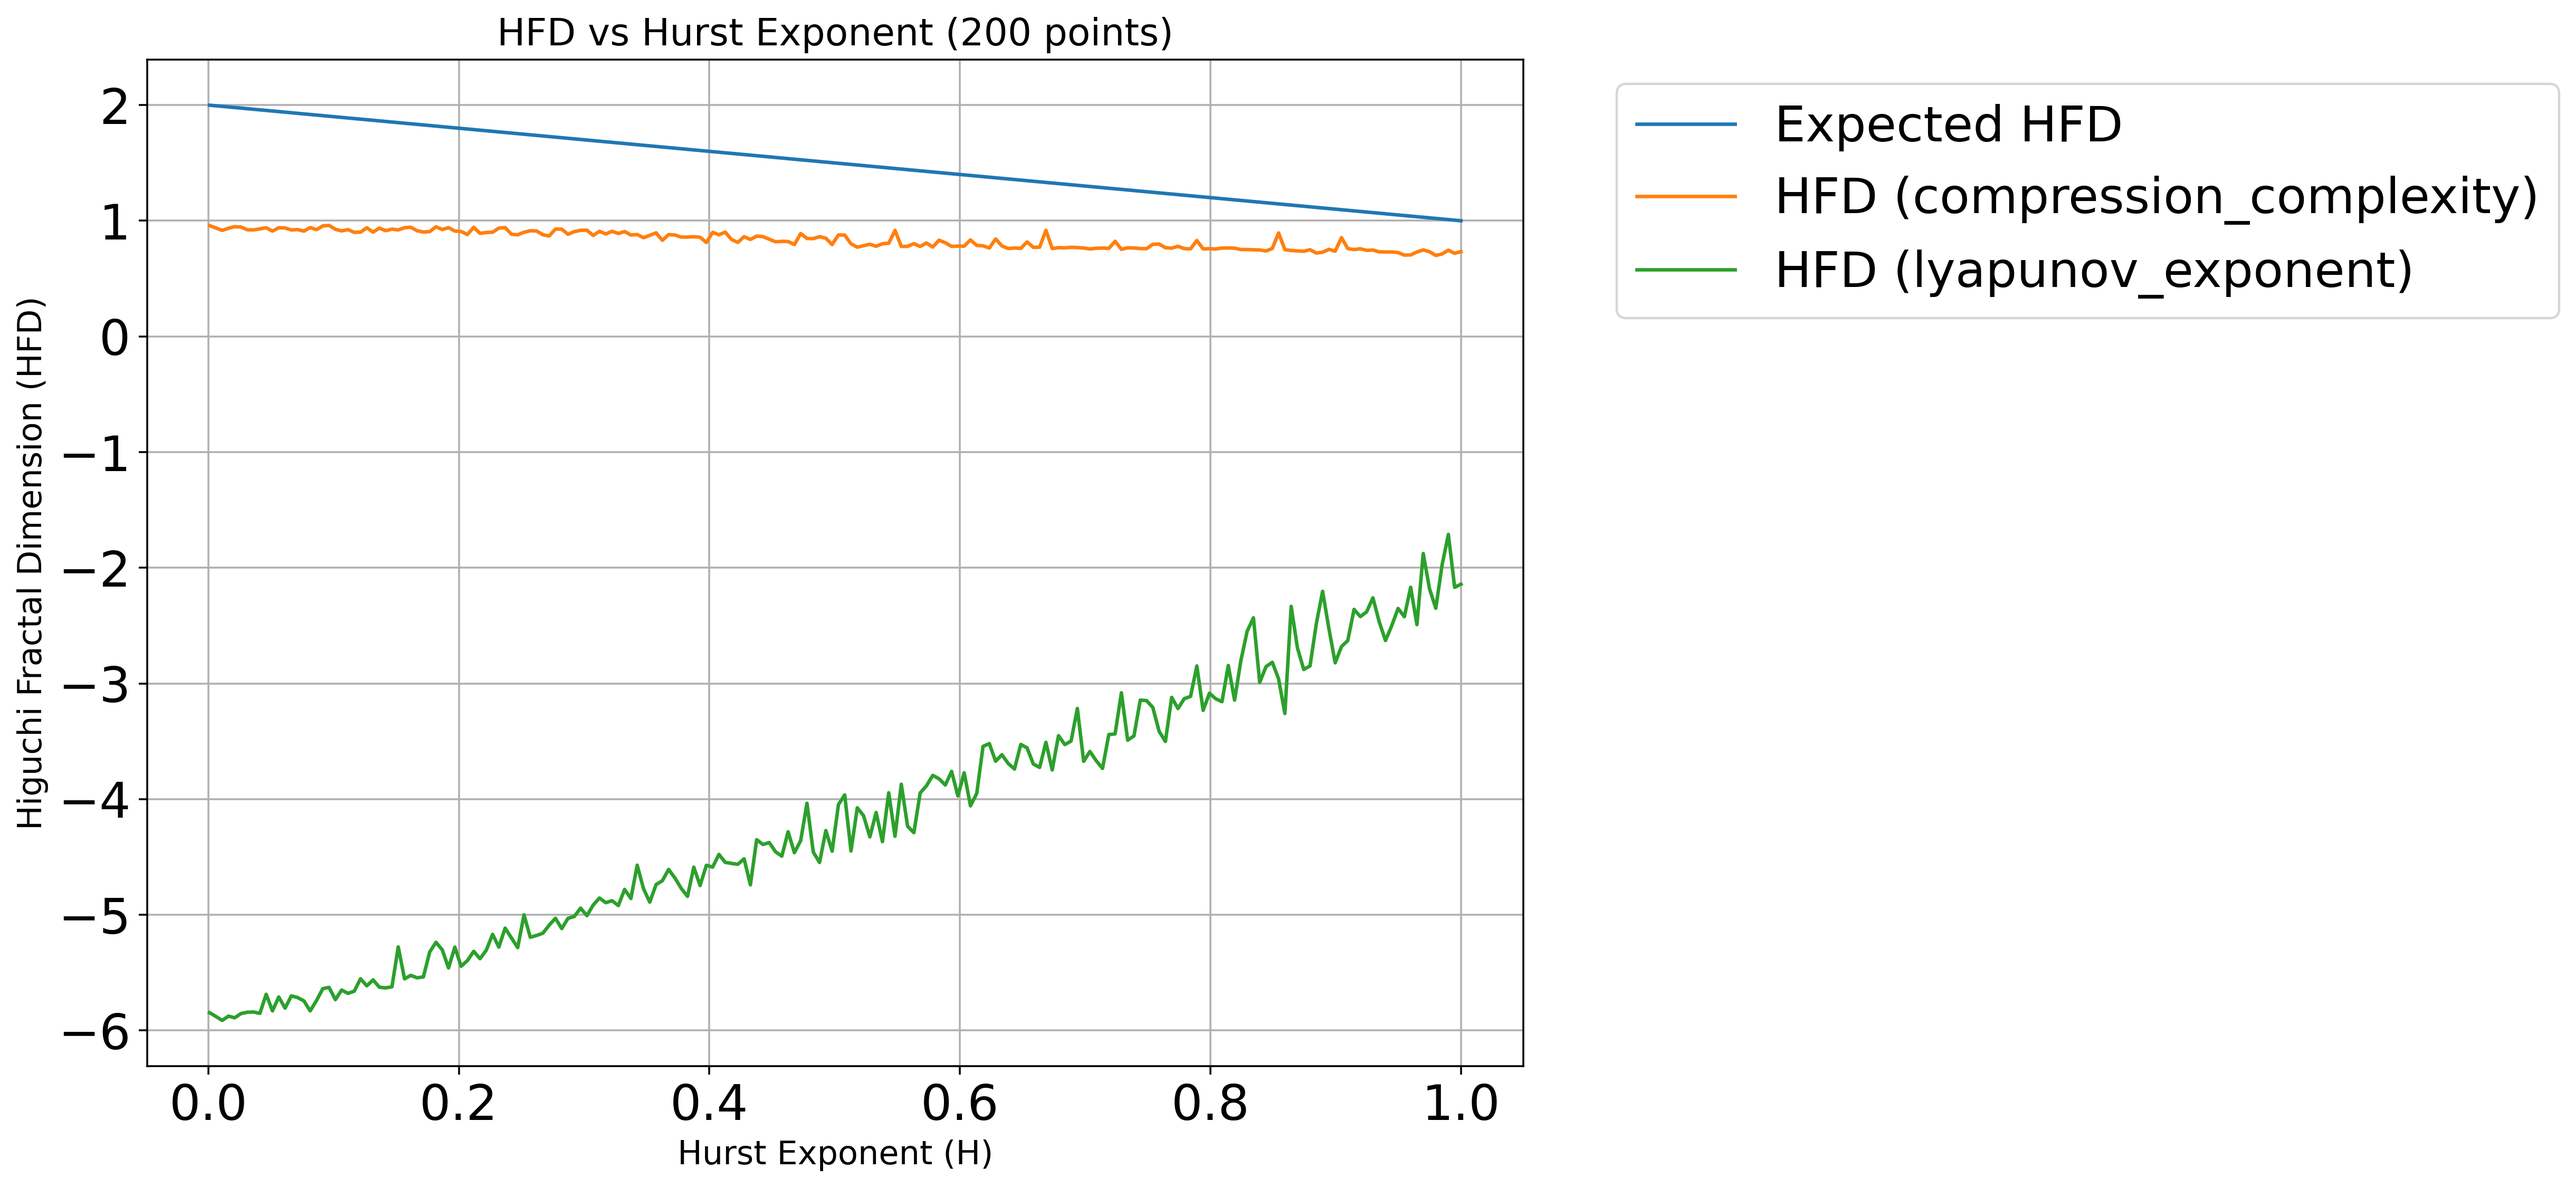
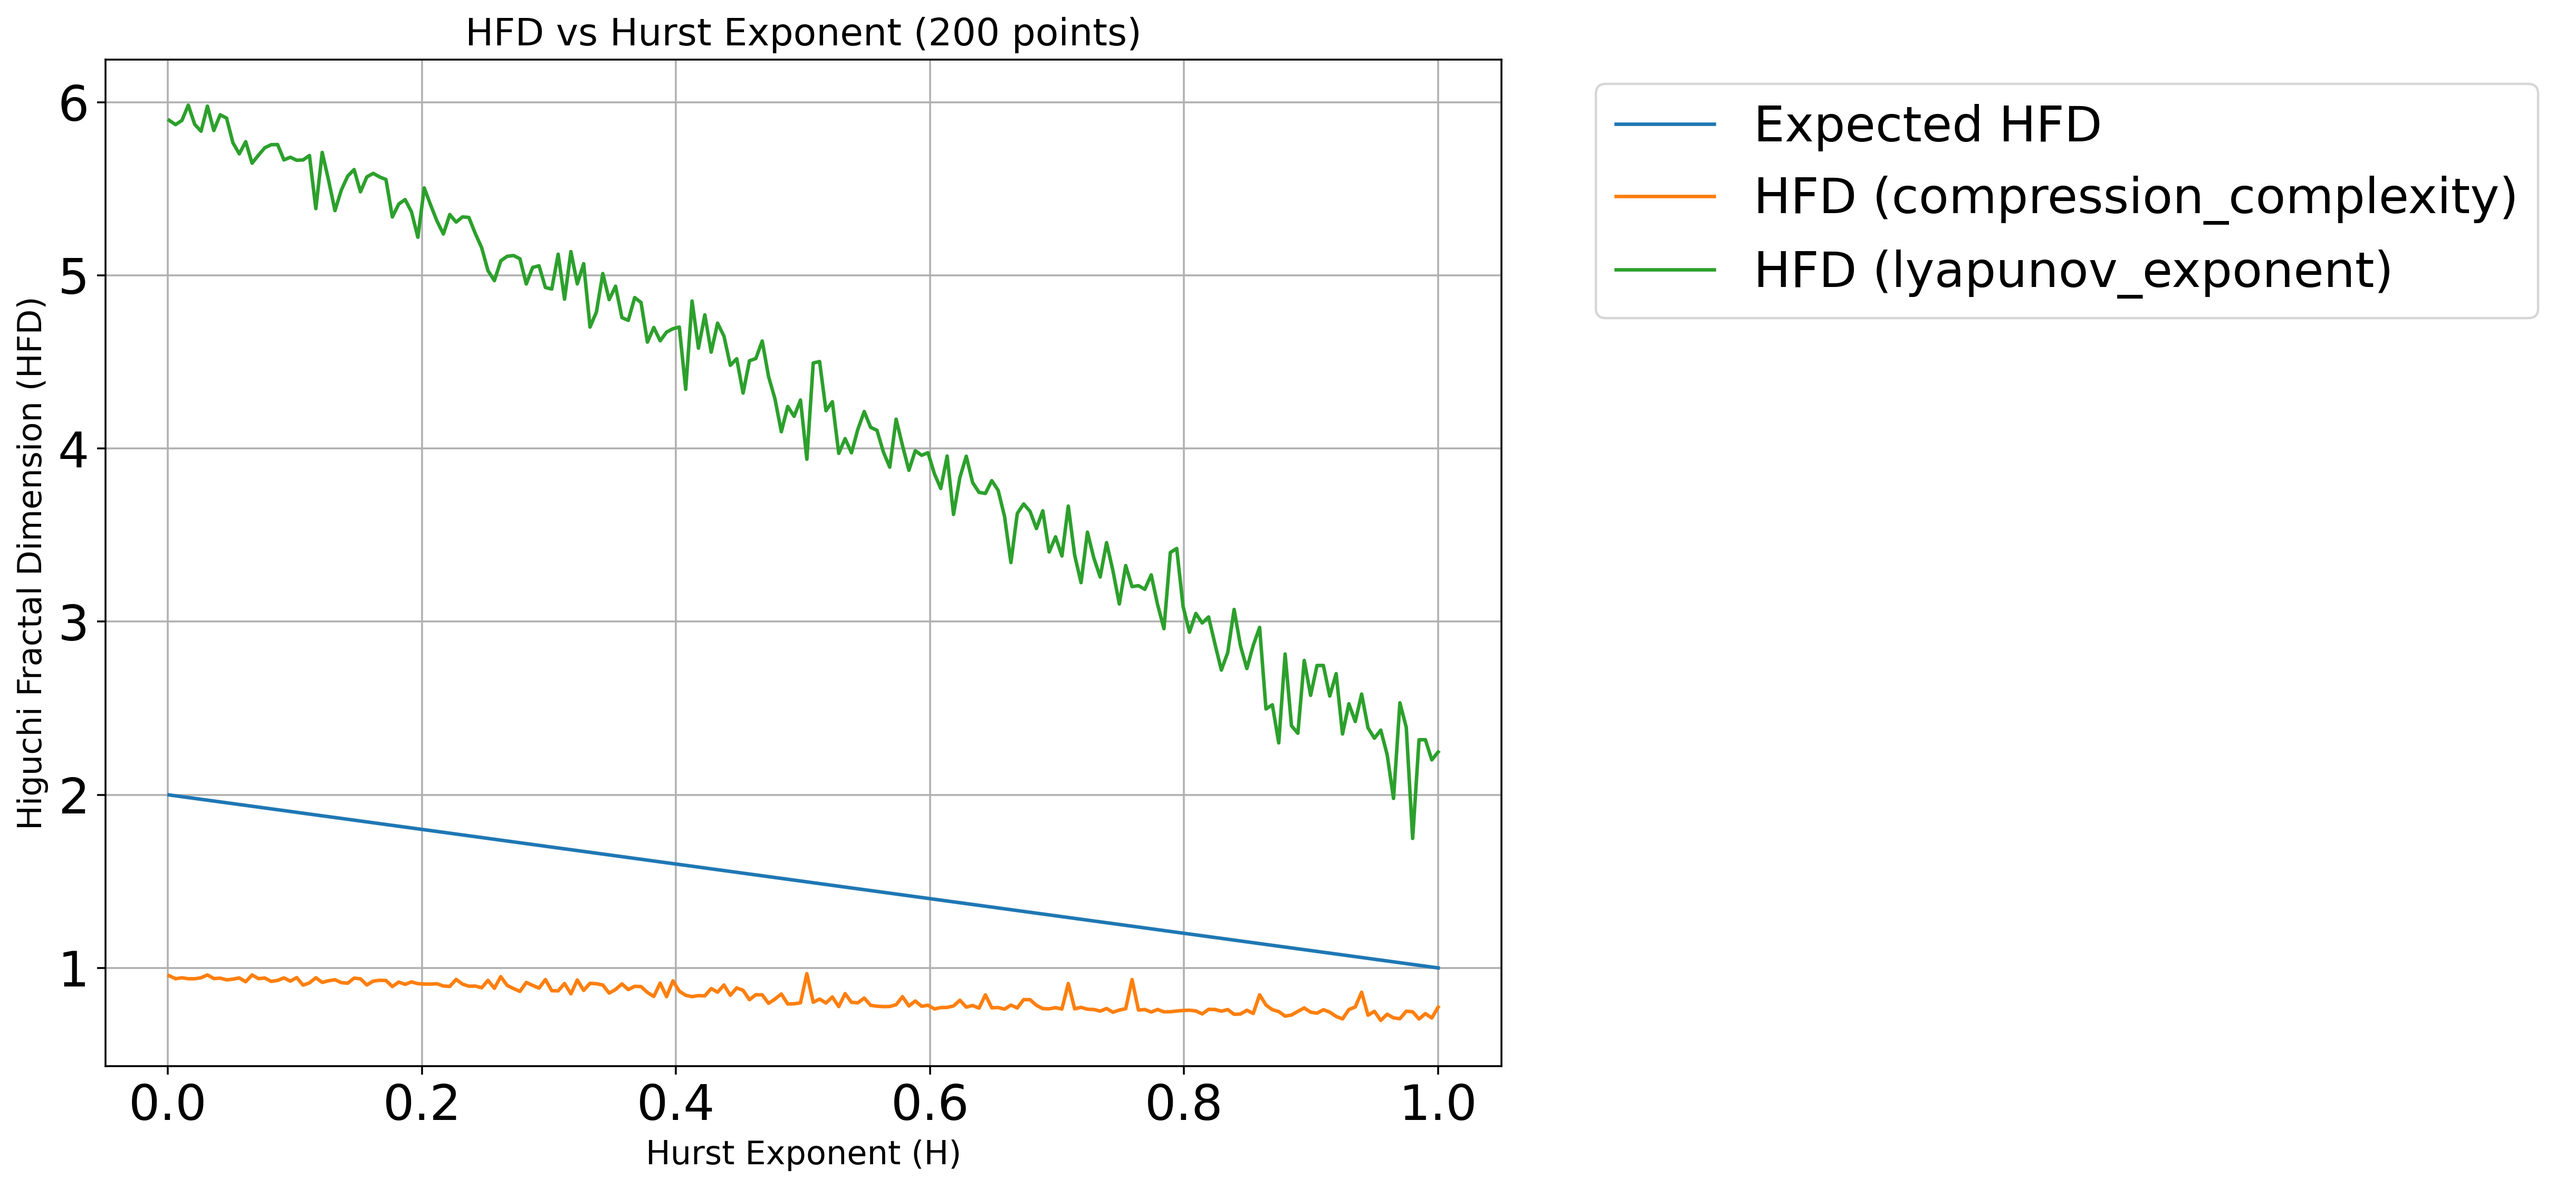
update

diff --git a/complexeva/measures/dimension_1/__init__.py b/complexeva/measures/dimension_1/__init__.py
@@ -1,13 +1,11 @@
-from .compression_complexity import compression_complexity
+from .compression import compression_complexity
 from .lyapunov_exponent import lyapunov_exponent
-from .kolmogorov_complexity import kolmogorov_complexity
 from .higuchi import hfd_matlab_equivalent, hfd_pyeeg
 from .lempel_ziv import lempel_ziv
 
 __all__ = [
-    "compression_complexity",
+    "compression",
     "lyapunov_exponent",
-    "kolmogorov_complexity",
     "hfd_matlab_equivalent",
     "hfd_pyeeg",
     "lempel_ziv",

diff --git a/setup.py b/setup.py
@@ -2,7 +2,7 @@ from setuptools import setup, find_packages
 
 setup(
     name="complexeva",
-    version="0.1.10",
+    version="0.1.11",
     packages=find_packages(),
     install_requires=[],
     author="Don Yin",
